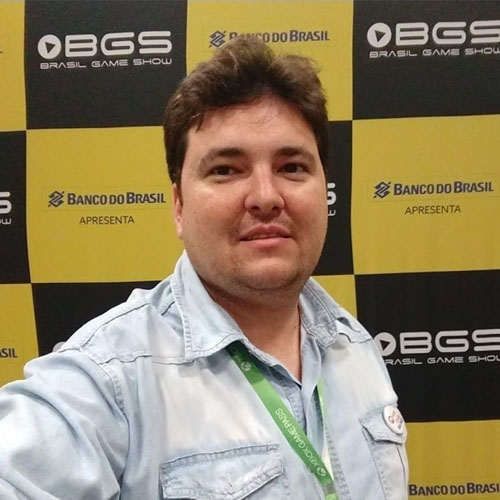
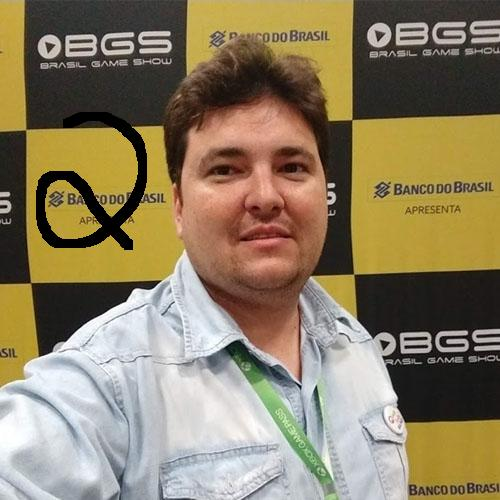
novo commit

Changed region(s): [[0.06, 0.21, 0.3, 0.51]]

diff --git a/index.html b/index.html
@@ -28,12 +28,12 @@
         <main class="container">
             <article class="super-card">
                 <section class="super-card-img">
-                    <img src="./img/danilofilitto.jpg" alt="Foto do Danilo Filitto", title="Danilo Filitto">
+                    <img src="./img/danilofilitto2.jpg" alt="Foto do Danilo Filitto", title="Danilo Filitto">
                     <h2>Danilo Filitto</h2>
                 </section>
                 <section class="super-card-text">
                     <p>
-                        Meu Nome é Danilo Filitto, sou Mestre em Ciência da Computação pela 
+                        Meu Nome é foto 2 Danilo Filitto, sou Mestre em Ciência da Computação pela 
                         Universidade Estadual de Maringá – UEM, Pós-Graduado em Redes de Computadores 
                         e Comunicação de Dados pela Universidade do Estado do Paraná – UEL, Bacharel 
                         em Ciência da Computação pela Universidade do Oeste Paulista – UNOESTE.
